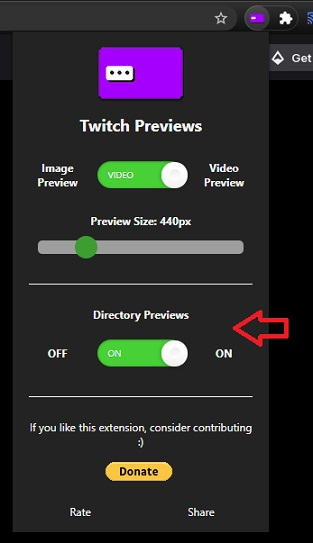
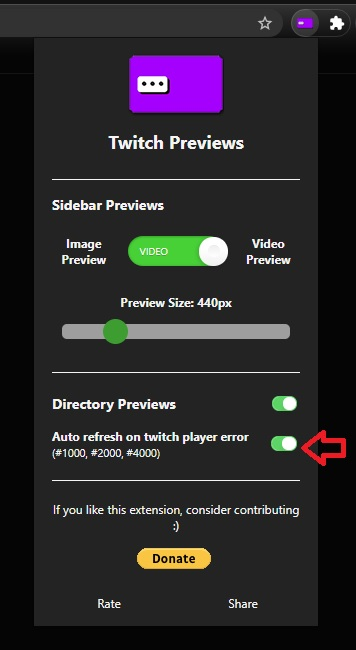
-- added auto refresh feature on main twitch player error (#1000, #2000, #4000).

Changed region(s): [[0.0, 0.0, 1.0, 1.0]]

diff --git a/chrome/main/core.js b/chrome/main/core.js
@@ -16,7 +16,9 @@ var navCardPipBtn;
 var clearOverlaysInterval = null;
 var clearVidPlayInterval = null;
 var isLayoutHorizontallyInverted = null;
-
+var isMainPlayerError = false;
+var isErrRefreshEnabled = false;
+var errRefreshListenerAlreadySet = false;
 
 var sideNavMutationObserver = new MutationObserver(function(mutations) {
     var shouldRefresh = false;
@@ -758,6 +760,20 @@ function setDirectoryPreviewMode() {
     }
 }
 
+function setIsErrRefreshEnabled() {
+    try {
+        chrome.storage.sync.get('isErrRefreshEnabled', function(result) {
+            if (typeof result.isErrRefreshEnabled == 'undefined') {
+                onIsErrRefreshEnabledChange(false, false);
+            } else {
+                onIsErrRefreshEnabledChange(result.isErrRefreshEnabled, false);
+            }
+        });
+    } catch (e) {
+        onIsErrRefreshEnabledChange(false, false);
+    }
+}
+
 function getCalculatedPreviewSizeByWidth (width) {
     return {width: width, height: 0.5636363636363636 * width};
 }
@@ -819,6 +835,20 @@ function onDirectoryPreviewModeChange(directoryPreviewEnabled, saveToStorage) {
     setDirectoryCardsListeners();
 }
 
+function onIsErrRefreshEnabledChange(_isErrRefreshEnabled, saveToStorage) {
+    isErrRefreshEnabled = _isErrRefreshEnabled;
+
+    if(_isErrRefreshEnabled) {
+        listenForPlayerError();
+    }
+
+    if (saveToStorage) {
+        chrome.storage.sync.set({'isErrRefreshEnabled': _isErrRefreshEnabled}, function() {
+
+        });
+    }
+}
+
 function onPreviewSizeChange(width) {
     clearExistingPreviewDivs(TP_PREVIEW_DIV_CLASSNAME);
     var previewSizeObj = getCalculatedPreviewSizeByWidth(width);
@@ -847,6 +877,7 @@ function ga_report_appStart() {
     var size = "440px";
     var mode = "image";
     var dirp = "dirp_on";
+    var errRefresh = "errRefresh_off";
 
     try {
         chrome.storage.sync.get('previewSize', function(result) {
@@ -869,8 +900,15 @@ function ga_report_appStart() {
                     } else {
                         dirp = result.isDirpEnabled ? "dirp_ON":"dirp_OFF";
                     }
-                    chrome.runtime.sendMessage({action: "appStart", detail: mode + " : " + size + " : " + dirp}, function(response) {
+                    chrome.storage.sync.get('isErrRefreshEnabled', function(result) {
+                        if (typeof result.isErrRefreshEnabled == 'undefined') {
 
+                        } else {
+                            errRefresh = result.isErrRefreshEnabled ? "errRefresh_ON":"errRefresh_OFF";
+                        }
+                        chrome.runtime.sendMessage({action: "appStart", detail: mode + " : " + size + " : " + dirp + " : " + errRefresh}, function(response) {
+
+                        });
                     });
                 });
             });
@@ -879,6 +917,33 @@ function ga_report_appStart() {
         chrome.runtime.sendMessage({action: "appStart", detail: "-- err: " + e.message}, function(response) {
 
         });
+    }
+}
+
+function listenForPlayerError() {
+    if (errRefreshListenerAlreadySet) {
+        return;
+    }
+    try{
+        document.querySelector(".video-player").querySelector('video').addEventListener('abort', (event) => {
+            if (isErrRefreshEnabled) {
+                setTimeout(function (){
+                    var el = document.querySelector('p[data-test-selector="content-overlay-gate__text"]');
+                    if (el) {
+                        if (['#1000', '# 1000', '#2000', '# 2000', '#4000','# 4000'].some(x => el.innerText.indexOf(x) >= 0)) {
+                            if (!document.hidden) {
+                                location.replace(window.location);
+                            } else {
+                                isMainPlayerError = true;
+                            }
+                        }
+                    }
+                },100)
+            }
+        });
+        errRefreshListenerAlreadySet = true;
+    } catch (e) {
+
     }
 }
 
@@ -897,6 +962,7 @@ window.addEventListener('load', (event) => {
         setTimeout(function (){
             setTitleMutationObserverForDirectoryCardsRefresh();
         }, 1000);
+        setIsErrRefreshEnabled();
     }, 2000);
 });
 
@@ -912,6 +978,9 @@ chrome.runtime.onMessage.addListener(function(msg, sender, sendResponse) {
         case "update_previewSize":
             onPreviewSizeChange(msg.width);
             break;
+        case "update_isErrRefreshEnabled":
+            onIsErrRefreshEnabledChange(msg.isErrRefreshEnabled, true);
+            break;
     }
 
 });
@@ -923,9 +992,13 @@ window.addEventListener('visibilitychange', function() {
 });
 
 function pageAwakened() {
+    if (isMainPlayerError) {
+        location.replace(window.location);
+    }
     setViewMode();
     setPreviewSizeFromStorage();
     setDirectoryPreviewMode();
+    setIsErrRefreshEnabled();
 }
 
 ///////////// END OF TAB RESUME /////////////

diff --git a/chrome/popups/updatePopup.html b/chrome/popups/updatePopup.html
@@ -8,18 +8,22 @@
     <img src="../images/TP96.png" width="96" height="96">
     <h2>Twitch Previews Updated!</h2>
 
-    <div style="margin-top: 40px;margin-left: 30%;text-align: left;" >
+    <div style="margin-top: 40px;margin-left: 25%;text-align: left;" >
 
 
         <h1>New Feature!</h1>
-        <div style="font-size: 20px;font-weight: bold;margin-top: 5px;" >Live stream previews in Twitch directories (followed streams grid list, game categories, browsing, etc..)</div>
-        <div style="font-size: 15px;font-weight: bold;margin-top: 15px;" >- hover over a stream in a twitch directory (pages where there is a grid list of live streams) -
-        the thumbnail will be temporarily replaced with the live stream preview.</div>
-        <div style="font-size: 13px;font-weight: normal;margin-top: 10px;" >* This option is turned on by default and can be changed in the extension options as shown by the red arrow in the picture below.</div>
+        <div style="font-size: 20px;font-weight: bold;margin-top: 5px;" >Auto page refresh when the main twitch player gets an error (#1000, #2000, #4000)</div>
+        <!--<div style="font-size: 15px;font-weight: bold;margin-top: 15px;" ></div>-->
+        </br>
+        <div style="font-size: 13px;font-weight: bold;margin-top: 10px;" >* this feature works when the tab with the player that got an error is currently active.</div>
+        <div style="font-size: 13px;font-weight: bold;margin-top: 10px;" >* if the player got an error while the tab was not active (in the background or chrome wasn't the active window) the page will automatically refresh when you come back to it.</div>
+       </br>
+        <div style="font-size: 13px;font-weight: normal;margin-top: 10px;" >* This feature is <span style="font-weight: bold;" >turned off by default</span> and can be changed in the extension options as shown by the red arrow in the picture below.</div>
         <div style="font-size: 13px;font-weight: normal;margin-top: 10px;" >* If you can't see the extension icon at the top bar - click the white chrome extensions manager icon next to the Twitch Previews extension icon in the picture below.</div>
 
-        <div>
-            <img style="margin-top: 20px;border: 1px solid purple;" src="../images/tp_options.jpg" width="313" height="543">
+        <div style="display: flex;" >
+            <img style="margin-top: 20px;margin-right: 10px;border: 1px solid purple;" src="../images/1000.jpg" width="415" height="231">
+            <img style="margin-top: 20px;border: 1px solid purple;" src="../images/tp_options.jpg" width="356" height="650">
         </div>
     </div>
 

diff --git a/chrome/popups/popup.js b/chrome/popups/popup.js
@@ -19,6 +19,15 @@ function changeDirectoryPreviewMode(isDirpEnabled){
     });
 }
 
+function changeIsErrRefreshEnabled(isErrRefreshEnabled){
+    chrome.tabs.query({active: true, currentWindow: true}, function (tabs) {
+        chrome.tabs.sendMessage(tabs[0].id, {action: "update_isErrRefreshEnabled", isErrRefreshEnabled: isErrRefreshEnabled})
+    });
+    chrome.runtime.sendMessage({action: "bg_update_isErrRefreshEnabled", detail: isErrRefreshEnabled}, function(response) {
+
+    });
+}
+
 function changePreviewSize(width) {
     chrome.tabs.query({active: true, currentWindow: true}, function (tabs) {
         chrome.tabs.sendMessage(tabs[0].id, {action: "update_previewSize", width: width})
@@ -43,7 +52,6 @@ document.addEventListener('DOMContentLoaded', function () {
     chrome.storage.sync.get('isImagePreviewMode', function(result) {
         previewModeCheckbox.checked = typeof result.isImagePreviewMode == 'undefined' ? false : !result.isImagePreviewMode;
     });
-
     previewModeCheckbox.addEventListener('change', (event) => {
         if (event.target.checked) {
             changePreviewMode(false);
@@ -56,12 +64,24 @@ document.addEventListener('DOMContentLoaded', function () {
     chrome.storage.sync.get('isDirpEnabled', function(result) {
         directoryPreviewCheckbox.checked = typeof result.isDirpEnabled == 'undefined' ? true : result.isDirpEnabled;
     });
-
     directoryPreviewCheckbox.addEventListener('change', (event) => {
         if (event.target.checked) {
             changeDirectoryPreviewMode(true);
         } else {
             changeDirectoryPreviewMode(false);
+        }
+    });
+
+
+    var errRefreshCheckbox = document.getElementById('TP_popup_err_refresh_checkbox');
+    chrome.storage.sync.get('isErrRefreshEnabled', function(result) {
+        errRefreshCheckbox.checked = typeof result.isErrRefreshEnabled == 'undefined' ? false : result.isErrRefreshEnabled;
+    });
+    errRefreshCheckbox.addEventListener('change', (event) => {
+        if (event.target.checked) {
+            changeIsErrRefreshEnabled(true);
+        } else {
+            changeIsErrRefreshEnabled(false);
         }
     });
 

diff --git a/chrome/popups/popup.html b/chrome/popups/popup.html
@@ -10,6 +10,7 @@
     <img id="TP_popup_logo" src="../images/TP96.png" width="96" height="96">
     <h2>Twitch Previews</h2>
     <div id="TP_popup_sub_container" >
+        <p class="TP_popup_sidebar_feature_title" ><span>Sidebar Previews</span> <!--<input id="TP_popup_sidebar_previews_checkbox" class="apple-switch" type="checkbox">--></p>
         <div class="TP_popup_toggle_container" >
             <div class="TP_toggle_text" >Image Preview</div>
             <label class="switch" >
@@ -24,15 +25,18 @@
             <input type="range" min="1" max="100" value="50" class="slider" id="TP_popup_preview_size_input_slider">
         </div>
 
-        <p class="TP_popup_dirp_title" >Directory Previews</p>
-        <div class="TP_popup_toggle_container" >
+
+
+        <p class="TP_popup_dirp_feature_title" style="border-top: 1px solid whitesmoke;margin-top: 30px;padding-top: 20px;" ><span>Directory Previews</span> <input id="TP_popup_directory_preview_mode_checkbox" class="apple-switch" type="checkbox"></p>
+        <p class="TP_popup_dirp_feature_title" ><span style="text-align: left;flex: 9;font-size: 12px;" >Auto refresh on twitch player error <span style="font-weight: normal;font-size: 11px;" >(#1000, #2000, #4000)</span></span> <input id="TP_popup_err_refresh_checkbox" class="apple-switch" type="checkbox" style="flex: 1;"></p>
+       <!-- <div class="TP_popup_toggle_container" >
             <div class="TP_toggle_text" >OFF</div>
             <label class="switch" >
                 <input id="TP_popup_directory_preview_mode_checkbox" class="switch-input" type="checkbox">
                 <span class="switch-label" data-on="ON" data-off="OFF"></span> <span class="switch-handle"></span>
             </label>
             <div class="TP_toggle_text" >ON</div>
-        </div>
+        </div>-->
 
         <div id="TP_popup_donation_container" >
             <div>If you like this extension, consider contributing :)</div>

diff --git a/chrome/popups/popup.css b/chrome/popups/popup.css
@@ -18,13 +18,64 @@
     justify-content: space-evenly;
 }
 
-.TP_popup_dirp_title {
-    margin-top: 30px;
+.TP_popup_sidebar_feature_title {
+    display: flex;
+    align-items: center;
+    justify-content: space-between;
     border-top: 1px solid whitesmoke;
     font-weight: bold;
-    padding-top: 25px;
+    padding-top: 15px;
     padding-bottom: 5px;
     font-size: 14px;
+    margin-top: 0;
+}
+
+.TP_popup_dirp_feature_title {
+    display: flex;
+    align-items: center;
+    justify-content: space-between;
+    /*margin-top: 30px;
+    border-top: 1px solid whitesmoke;
+    padding-bottom: 5px;
+    padding-top: 25px;*/
+    font-weight: bold;
+    font-size: 14px;
+}
+
+input.apple-switch {
+    cursor: pointer;
+    transition: 300ms;
+    position: relative;
+    -webkit-appearance: none;
+    outline: none;
+    width: 25px;
+    height: 15px;
+    background-color: #fff;
+    border: 1px solid #D9DADC;
+    border-radius: 25px;
+    box-shadow: inset -10px 0 0 0 #fff;
+}
+
+input.apple-switch:after {
+    content: "";
+    position: absolute;
+    top: 1px;
+    left: 1px;
+    background: transparent;
+    width: 13px;
+    height: 13px;
+    border-radius: 50%;
+    box-shadow: 1px 2px 3px rgba(0,0,0,0.2);
+}
+
+input.apple-switch:checked {
+    box-shadow: inset 10px 0 0 0 #4ed164;
+    border-color: #4ed164;
+}
+
+input.apple-switch:checked:after {
+    left: 10px;
+    box-shadow: -2px 4px 3px rgba(0,0,0,0.05);
 }
 
 .TP_toggle_text {
@@ -35,10 +86,10 @@
 }
 
 #TP_popup_donation_container {
-    margin-top: 30px;
+    margin-top: 20px;
     text-align: center;
     border-top: 1px solid whitesmoke;
-    padding-top: 25px;
+    padding-top: 20px;
 }
 
 #TP_popup_donation_container > form {

diff --git a/chrome/main/background.js b/chrome/main/background.js
@@ -20,10 +20,10 @@ chrome.runtime.onInstalled.addListener(function(details) {
         ga('send', 'event', 'tp_install', 'tp_install-' + appVer, 'tp_install-' + appVer);
     } else {
         if (details.reason === "update") {
-            /*if (details.previousVersion === "1.5.0.2") {
+          //  if (details.previousVersion === "1.5.0.2") {
                 chrome.tabs.create({url:"../popups/updatePopup.html"});
-                ga('send', 'event', 'updatePopup_show-v1.3.6', 'updatePopup_show-v1.3.6', "updatePopup_show-v1.3.6");
-            }*/
+                ga('send', 'event', 'updatePopup_show-' + appVer, 'updatePopup_show-' + appVer, 'updatePopup_show-' + appVer);
+           // }
             ga('send', 'event', 'updated-' + appVer, 'updated-' + appVer, 'updated-' + appVer);
         }
     }
@@ -34,8 +34,11 @@ chrome.runtime.onMessage.addListener(function(msg, sender, sendResponse) {
         case "bg_update_imagePreviewMode":
             ga('send', 'event', 'preview_mode', 'change', msg.detail ? "image":"video");
             break;
-            case "bg_update_directoryPreviewMode":
+        case "bg_update_directoryPreviewMode":
             ga('send', 'event', 'dirp_mode', 'change', msg.detail ? "dirp_ON":"dirp_OFF");
+            break;
+        case "bg_update_isErrRefreshEnabled":
+            ga('send', 'event', 'errRefresh', 'change', msg.detail ? "ErrRefresh_ON":"ErrRefresh_OFF");
             break;
         case "bg_update_previewSize":
             ga('send', 'event', 'preview_size', 'change', msg.detail);
